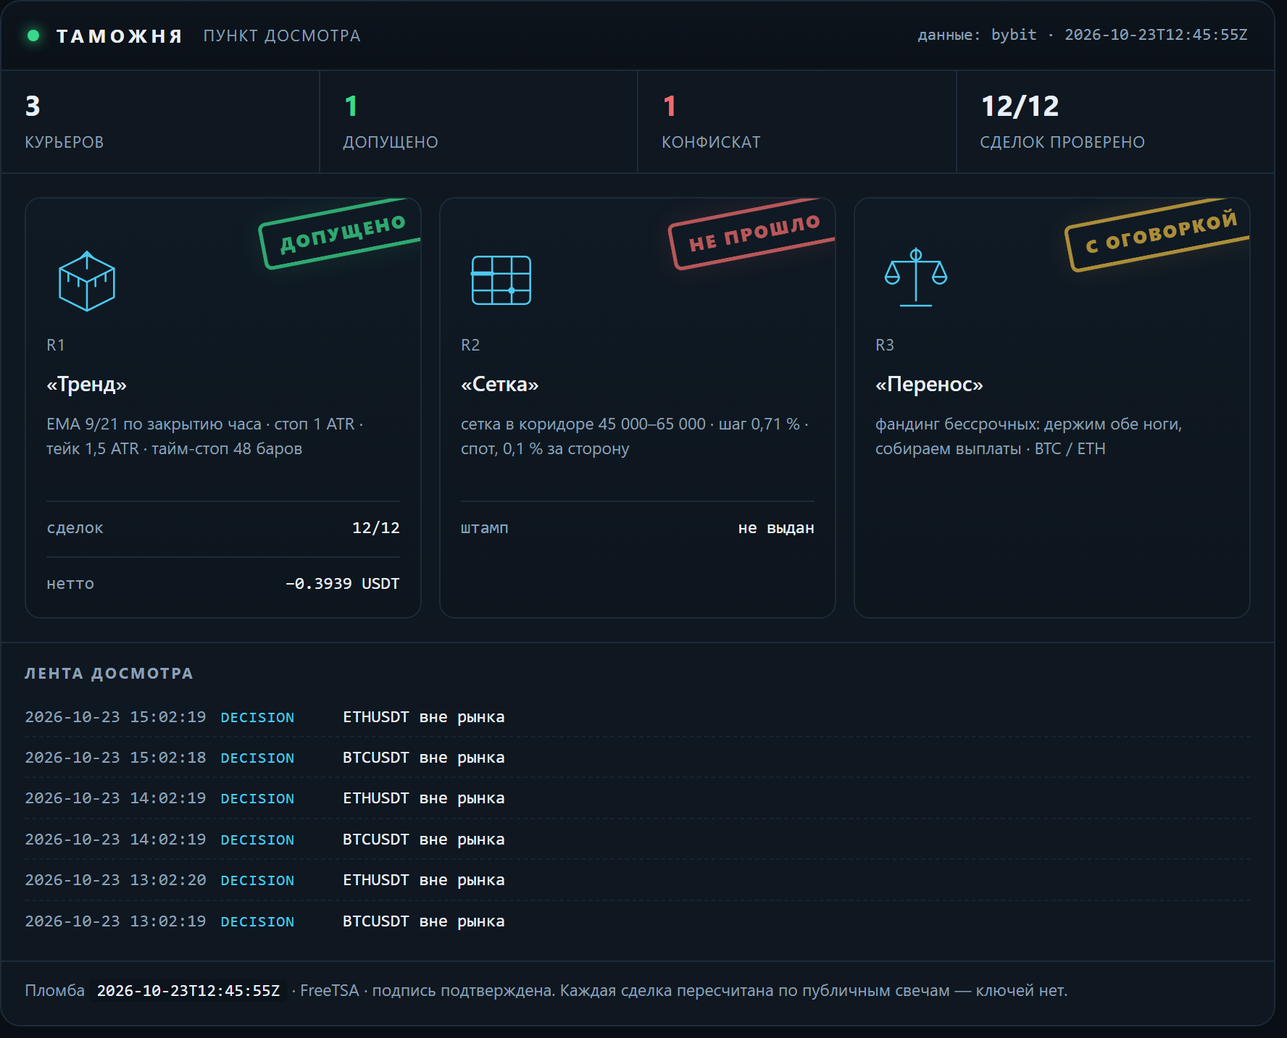
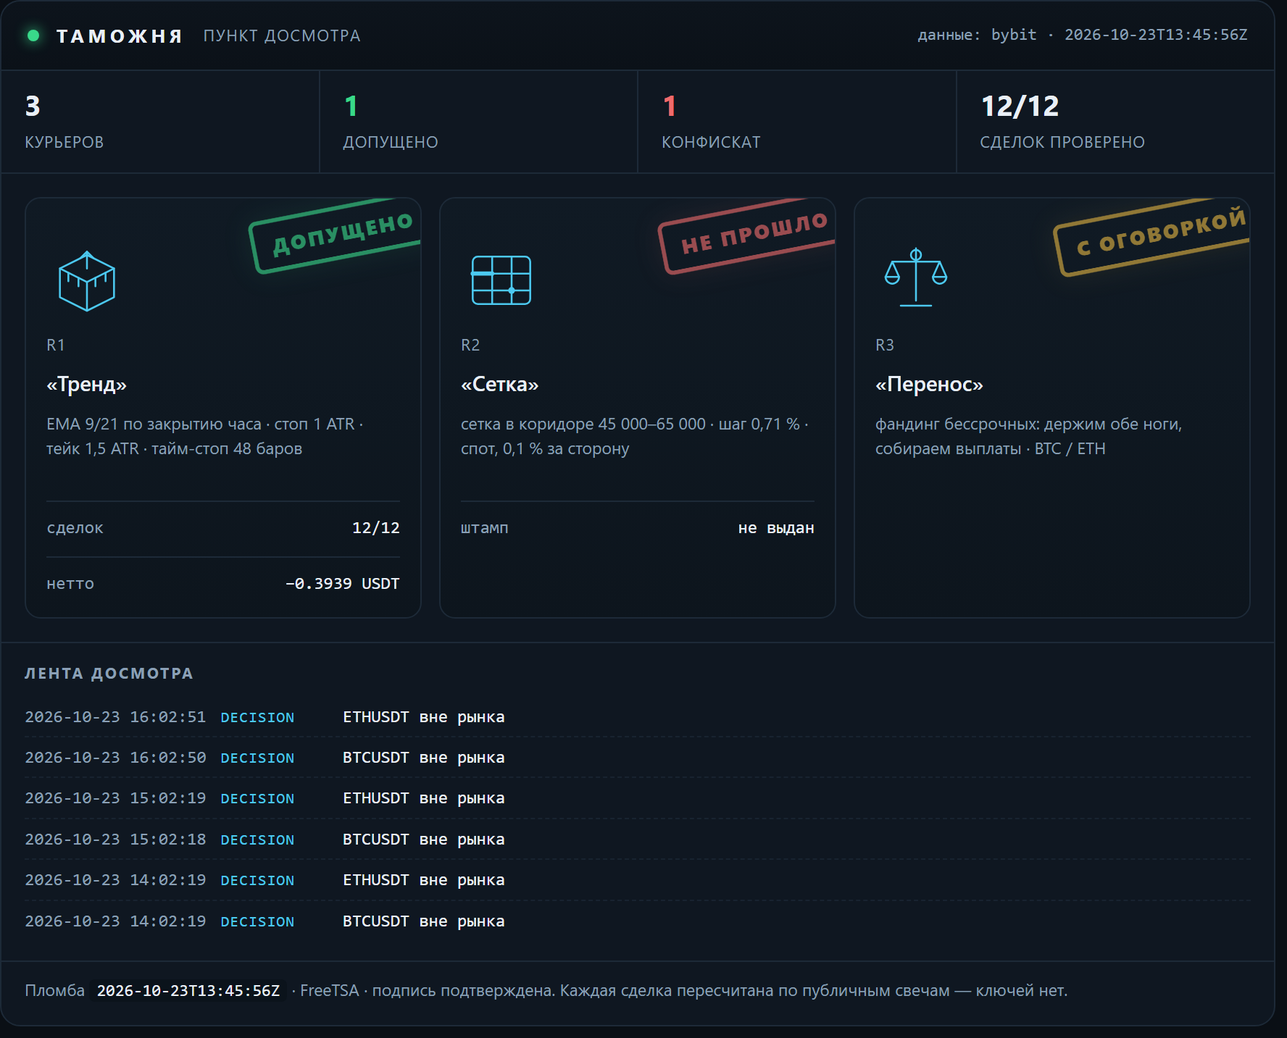
lab: таможня — свежие числа досмотра

Changed region(s): [[0.8052, 0.1842, 0.96, 0.2763], [0.4955, 0.1842, 0.6503, 0.2763], [0.1858, 0.1842, 0.3407, 0.2763]]

diff --git a/docs/customs.html b/docs/customs.html
@@ -16,7 +16,7 @@
   <h1><a href="index.html">Gramwright Lab</a></h1>
   <p>Журнал проверки торговых гипотез: что проверяли, что вышло по факту, сколько съели издержки. Числа берутся из журнала стенда. Не инвестиционная рекомендация.</p>
 </header>
-<h1>Таможня</h1><p class="intro">Пункт досмотра заявленных результатов. Стратегии приезжают с грузом обещаний, и каждая проходит проверку по публичным данным биржи: цены существуют, комиссии по тарифу, нетто сходится. Что прошло — получает штамп. Что не прошло — в конфискат, с причиной. Штамп означает «записи подлинные», а не «стратегия прибыльна».</p><p><img src="img/customs.png" alt="Терминал досмотра: три курьера, штампы, лента событий" style="width:100%;height:auto;border:1px solid var(--line);border-radius:10px"></p><p class="c-note">Сверху — тот же терминал, что собирается из журналов: счётчики, эмблемы курьеров, штампы и лента последних событий. Ниже — то же самое текстом, чтобы читалось с телефона и индексировалось поиском.</p><article><h2>R1 «Тренд» <span class="verdict">— <span class="c-ok">допущено</span></span></h2><p><strong>Правило:</strong> EMA 9/21 по закрытию часа · стоп 1 ATR · тейк 1,5 ATR · тайм-стоп 48 баров</p><p><strong>Декларация:</strong> Заявлено до прогона: держать 30 сделок, лимит нотионала 10 % от счёта, стоп дня −1 %. Прибыль не заявлялась — это важно: курьер не обещал доход.</p><p><strong>Проверено по публичным свечам, без ключей:</strong> 12 из 12 сделок. Сумма нетто −0.3939 USDT.</p><ul class="c-chk"><li class="y">BTCUSDT: нетто −0.8746 USDT · комиссии 0.0901 · проверено · с поправкой</li><li class="y">BTCUSDT: нетто −0.5441 USDT · комиссии 0.0896 · проверено</li><li class="y">ETHUSDT: нетто −0.2253 USDT · комиссии 0.0266 · проверено</li><li class="y">ETHUSDT: нетто −0.1513 USDT · комиссии 0.0265 · проверено</li><li class="y">ETHUSDT: нетто +0.1984 USDT · комиссии 0.0262 · проверено</li><li class="y">ETHUSDT: нетто +0.1617 USDT · комиссии 0.0260 · проверено</li><li class="y">ETHUSDT: нетто +0.2645 USDT · комиссии 0.0263 · проверено</li><li class="y">BTCUSDT: нетто +0.6246 USDT · комиссии 0.0897 · проверено</li><li class="y">BTCUSDT: нетто −0.5881 USDT · комиссии 0.0910 · проверено</li><li class="y">ETHUSDT: нетто −0.2403 USDT · комиссии 0.0270 · проверено</li><li class="y">BTCUSDT: нетто +0.6908 USDT · комиссии 0.0908 · проверено</li><li class="y">ETHUSDT: нетто +0.2898 USDT · комиссии 0.0267 · проверено</li></ul><p class="tags">журнал sha256 a63052b0cb73ac32… · проверяльщик verify-1</p><p class="c-note">Штамп означает: записи подлинные, а не что стратегия прибыльна. Курьер в минусе, и минус тоже стоит на штампе — иначе это была бы не проверка, а реклама.</p><p class="tags">источник: verify-report.json</p></article><article><h2>R2 «Сетка» <span class="verdict">— <span class="c-bad">не прошло</span></span></h2><p><strong>Правило:</strong> сетка в коридоре 45 000–65 000 · шаг 0,71 % · спот, 0,1 % за сторону</p><p><strong>Декларация:</strong> Заявлено: «44 % урожая уходит бирже в виде комиссий». Кроме того — перевес над простым владением монетой.</p><p><strong>Что сошлось:</strong></p><ul class="c-chk"><li class="y">сами числа пересчитаны и воспроизводятся: коридор 45–65k был активен 23 % всей истории и 28 % последних двух лет</li></ul><p><strong>Что не сошлось:</strong></p><ul class="c-chk"><li class="n">44 % не подтвердилось: при шаге 0,71 % и тарифе 0,1 % комиссия съедает 28,3 % шага. Чтобы получить 44 %, нужен шаг 0,45 % — это около 80 уровней, а не 50</li><li class="n">от урожая доля комиссий 85,5 % за всю историю и 49,6 % за последние два года — тоже не 44 %</li><li class="n">перевес над владением посчитан на тарифе 0,055 %: при нём +1,32 п. п., на розничном 0,1 % — −0,72 п. п. То есть перевес исчезает</li><li class="n">семилетний тест стартовал в сентябре 2019 при биткоине около 10 000 — ниже коридора. Он говорит, что фиксированный коридор не подходит для периода, а не что сетка отстаёт</li></ul><p class="tags">источник: lab_grid.py, пересчёт 17.10.2026</p></article><article><h2>R3 «Перенос» <span class="verdict">— <span class="c-warn">с оговоркой</span></span></h2><p><strong>Правило:</strong> фандинг бессрочных: держим обе ноги, собираем выплаты · BTC / ETH</p><p><strong>Декларация:</strong> Заявлено: около 11,9 % в год от выплат фандинга при просадке выплатной кривой меньше 2 %.</p><p><strong>Что сошлось:</strong></p><ul class="c-chk"><li class="y">выплаты взяты из публичной истории биржи, ключей не нужно: BTC — 7 190 выплат с 25.03.2020, ETH — 6 561 с 21.10.2020</li><li class="y">сумма сходится: +83,4 % и +83,2 % за 6,6 и 6,0 года — те самые ~11,9 % в год</li><li class="y">худшая просадка выплатной кривой: −1,65 % и −1,97 %</li></ul><p><strong>Что не сошлось:</strong></p><ul class="c-chk"><li class="n">оговорка 1: премию сжали — 2021 год дал +38,3 %, 2026 — +1,96 %. Прошлое не повторяется</li><li class="n">оговорка 2: вход-выход стоит около 0,31 %, капитала нужно 1,2 от нотионала, текущий базис −0,082 % против входа</li><li class="n">оговорка 3: риск площадки. История FTX в этой же таблице выглядела так же прилично</li></ul><p class="tags">источник: публичная история фандинга Bybit, замер 17.10.2026</p></article><div class="c-conf"><h3>Конфискат</h3><p><strong>«Сетка»: заявленные 44 % комиссий не подтвердились.</strong> Досмотр показал 28,3 % от шага и 85,5 % от урожая — цифра хуже заявленной по форме, но лучше по смыслу: сетку убивает не размер шага, а то, что урожай почти весь уходит в комиссии. Это и вышло в выпуск — с поправкой, а не с красивой цифрой.</p></div><p class="c-note">Пломба: <code>2026-10-23T12:45:55Z</code> · нотариус FreeTSA · Oct 23 12:45:55 2026 GMT · подпись подтверждена. Манифест скрепляет отчёт проверки, журнал сделок и декларации курьеров: подменишь любую цифру — пломба перестанет сходиться.</p><p class="c-note">Досмотр идёт по публичным минутным свечам и публичной истории фандинга — ключей у проверяющего нет, и он может повторить проверку сам.</p><p class="c-note">Контент образовательный, не является инвестиционной рекомендацией. Торговля связана с риском потери капитала.</p>
+<h1>Таможня</h1><p class="intro">Пункт досмотра заявленных результатов. Стратегии приезжают с грузом обещаний, и каждая проходит проверку по публичным данным биржи: цены существуют, комиссии по тарифу, нетто сходится. Что прошло — получает штамп. Что не прошло — в конфискат, с причиной. Штамп означает «записи подлинные», а не «стратегия прибыльна».</p><p><img src="img/customs.png" alt="Терминал досмотра: три курьера, штампы, лента событий" style="width:100%;height:auto;border:1px solid var(--line);border-radius:10px"></p><p class="c-note">Сверху — тот же терминал, что собирается из журналов: счётчики, эмблемы курьеров, штампы и лента последних событий. Ниже — то же самое текстом, чтобы читалось с телефона и индексировалось поиском.</p><article><h2>R1 «Тренд» <span class="verdict">— <span class="c-ok">допущено</span></span></h2><p><strong>Правило:</strong> EMA 9/21 по закрытию часа · стоп 1 ATR · тейк 1,5 ATR · тайм-стоп 48 баров</p><p><strong>Декларация:</strong> Заявлено до прогона: держать 30 сделок, лимит нотионала 10 % от счёта, стоп дня −1 %. Прибыль не заявлялась — это важно: курьер не обещал доход.</p><p><strong>Проверено по публичным свечам, без ключей:</strong> 12 из 12 сделок. Сумма нетто −0.3939 USDT.</p><ul class="c-chk"><li class="y">BTCUSDT: нетто −0.8746 USDT · комиссии 0.0901 · проверено · с поправкой</li><li class="y">BTCUSDT: нетто −0.5441 USDT · комиссии 0.0896 · проверено</li><li class="y">ETHUSDT: нетто −0.2253 USDT · комиссии 0.0266 · проверено</li><li class="y">ETHUSDT: нетто −0.1513 USDT · комиссии 0.0265 · проверено</li><li class="y">ETHUSDT: нетто +0.1984 USDT · комиссии 0.0262 · проверено</li><li class="y">ETHUSDT: нетто +0.1617 USDT · комиссии 0.0260 · проверено</li><li class="y">ETHUSDT: нетто +0.2645 USDT · комиссии 0.0263 · проверено</li><li class="y">BTCUSDT: нетто +0.6246 USDT · комиссии 0.0897 · проверено</li><li class="y">BTCUSDT: нетто −0.5881 USDT · комиссии 0.0910 · проверено</li><li class="y">ETHUSDT: нетто −0.2403 USDT · комиссии 0.0270 · проверено</li><li class="y">BTCUSDT: нетто +0.6908 USDT · комиссии 0.0908 · проверено</li><li class="y">ETHUSDT: нетто +0.2898 USDT · комиссии 0.0267 · проверено</li></ul><p class="tags">журнал sha256 c27b2e941e821391… · проверяльщик verify-1</p><p class="c-note">Штамп означает: записи подлинные, а не что стратегия прибыльна. Курьер в минусе, и минус тоже стоит на штампе — иначе это была бы не проверка, а реклама.</p><p class="tags">источник: verify-report.json</p></article><article><h2>R2 «Сетка» <span class="verdict">— <span class="c-bad">не прошло</span></span></h2><p><strong>Правило:</strong> сетка в коридоре 45 000–65 000 · шаг 0,71 % · спот, 0,1 % за сторону</p><p><strong>Декларация:</strong> Заявлено: «44 % урожая уходит бирже в виде комиссий». Кроме того — перевес над простым владением монетой.</p><p><strong>Что сошлось:</strong></p><ul class="c-chk"><li class="y">сами числа пересчитаны и воспроизводятся: коридор 45–65k был активен 23 % всей истории и 28 % последних двух лет</li></ul><p><strong>Что не сошлось:</strong></p><ul class="c-chk"><li class="n">44 % не подтвердилось: при шаге 0,71 % и тарифе 0,1 % комиссия съедает 28,3 % шага. Чтобы получить 44 %, нужен шаг 0,45 % — это около 80 уровней, а не 50</li><li class="n">от урожая доля комиссий 85,5 % за всю историю и 49,6 % за последние два года — тоже не 44 %</li><li class="n">перевес над владением посчитан на тарифе 0,055 %: при нём +1,32 п. п., на розничном 0,1 % — −0,72 п. п. То есть перевес исчезает</li><li class="n">семилетний тест стартовал в сентябре 2019 при биткоине около 10 000 — ниже коридора. Он говорит, что фиксированный коридор не подходит для периода, а не что сетка отстаёт</li></ul><p class="tags">источник: lab_grid.py, пересчёт 17.10.2026</p></article><article><h2>R3 «Перенос» <span class="verdict">— <span class="c-warn">с оговоркой</span></span></h2><p><strong>Правило:</strong> фандинг бессрочных: держим обе ноги, собираем выплаты · BTC / ETH</p><p><strong>Декларация:</strong> Заявлено: около 11,9 % в год от выплат фандинга при просадке выплатной кривой меньше 2 %.</p><p><strong>Что сошлось:</strong></p><ul class="c-chk"><li class="y">выплаты взяты из публичной истории биржи, ключей не нужно: BTC — 7 190 выплат с 25.03.2020, ETH — 6 561 с 21.10.2020</li><li class="y">сумма сходится: +83,4 % и +83,2 % за 6,6 и 6,0 года — те самые ~11,9 % в год</li><li class="y">худшая просадка выплатной кривой: −1,65 % и −1,97 %</li></ul><p><strong>Что не сошлось:</strong></p><ul class="c-chk"><li class="n">оговорка 1: премию сжали — 2021 год дал +38,3 %, 2026 — +1,96 %. Прошлое не повторяется</li><li class="n">оговорка 2: вход-выход стоит около 0,31 %, капитала нужно 1,2 от нотионала, текущий базис −0,082 % против входа</li><li class="n">оговорка 3: риск площадки. История FTX в этой же таблице выглядела так же прилично</li></ul><p class="tags">источник: публичная история фандинга Bybit, замер 17.10.2026</p></article><div class="c-conf"><h3>Конфискат</h3><p><strong>«Сетка»: заявленные 44 % комиссий не подтвердились.</strong> Досмотр показал 28,3 % от шага и 85,5 % от урожая — цифра хуже заявленной по форме, но лучше по смыслу: сетку убивает не размер шага, а то, что урожай почти весь уходит в комиссии. Это и вышло в выпуск — с поправкой, а не с красивой цифрой.</p></div><p class="c-note">Пломба: <code>2026-10-23T13:45:56Z</code> · нотариус FreeTSA · Oct 23 13:45:56 2026 GMT · подпись подтверждена. Манифест скрепляет отчёт проверки, журнал сделок и декларации курьеров: подменишь любую цифру — пломба перестанет сходиться.</p><p class="c-note">Досмотр идёт по публичным минутным свечам и публичной истории фандинга — ключей у проверяющего нет, и он может повторить проверку сам.</p><p class="c-note">Контент образовательный, не является инвестиционной рекомендацией. Торговля связана с риском потери капитала.</p>
 <footer class="site">
   Код стенда и аудитора: <a href="https://github.com/XSlaidx/truth-engine">XSlaidx/truth-engine</a>
   &middot; <a href="graveyard.html">кладбище правил</a>
